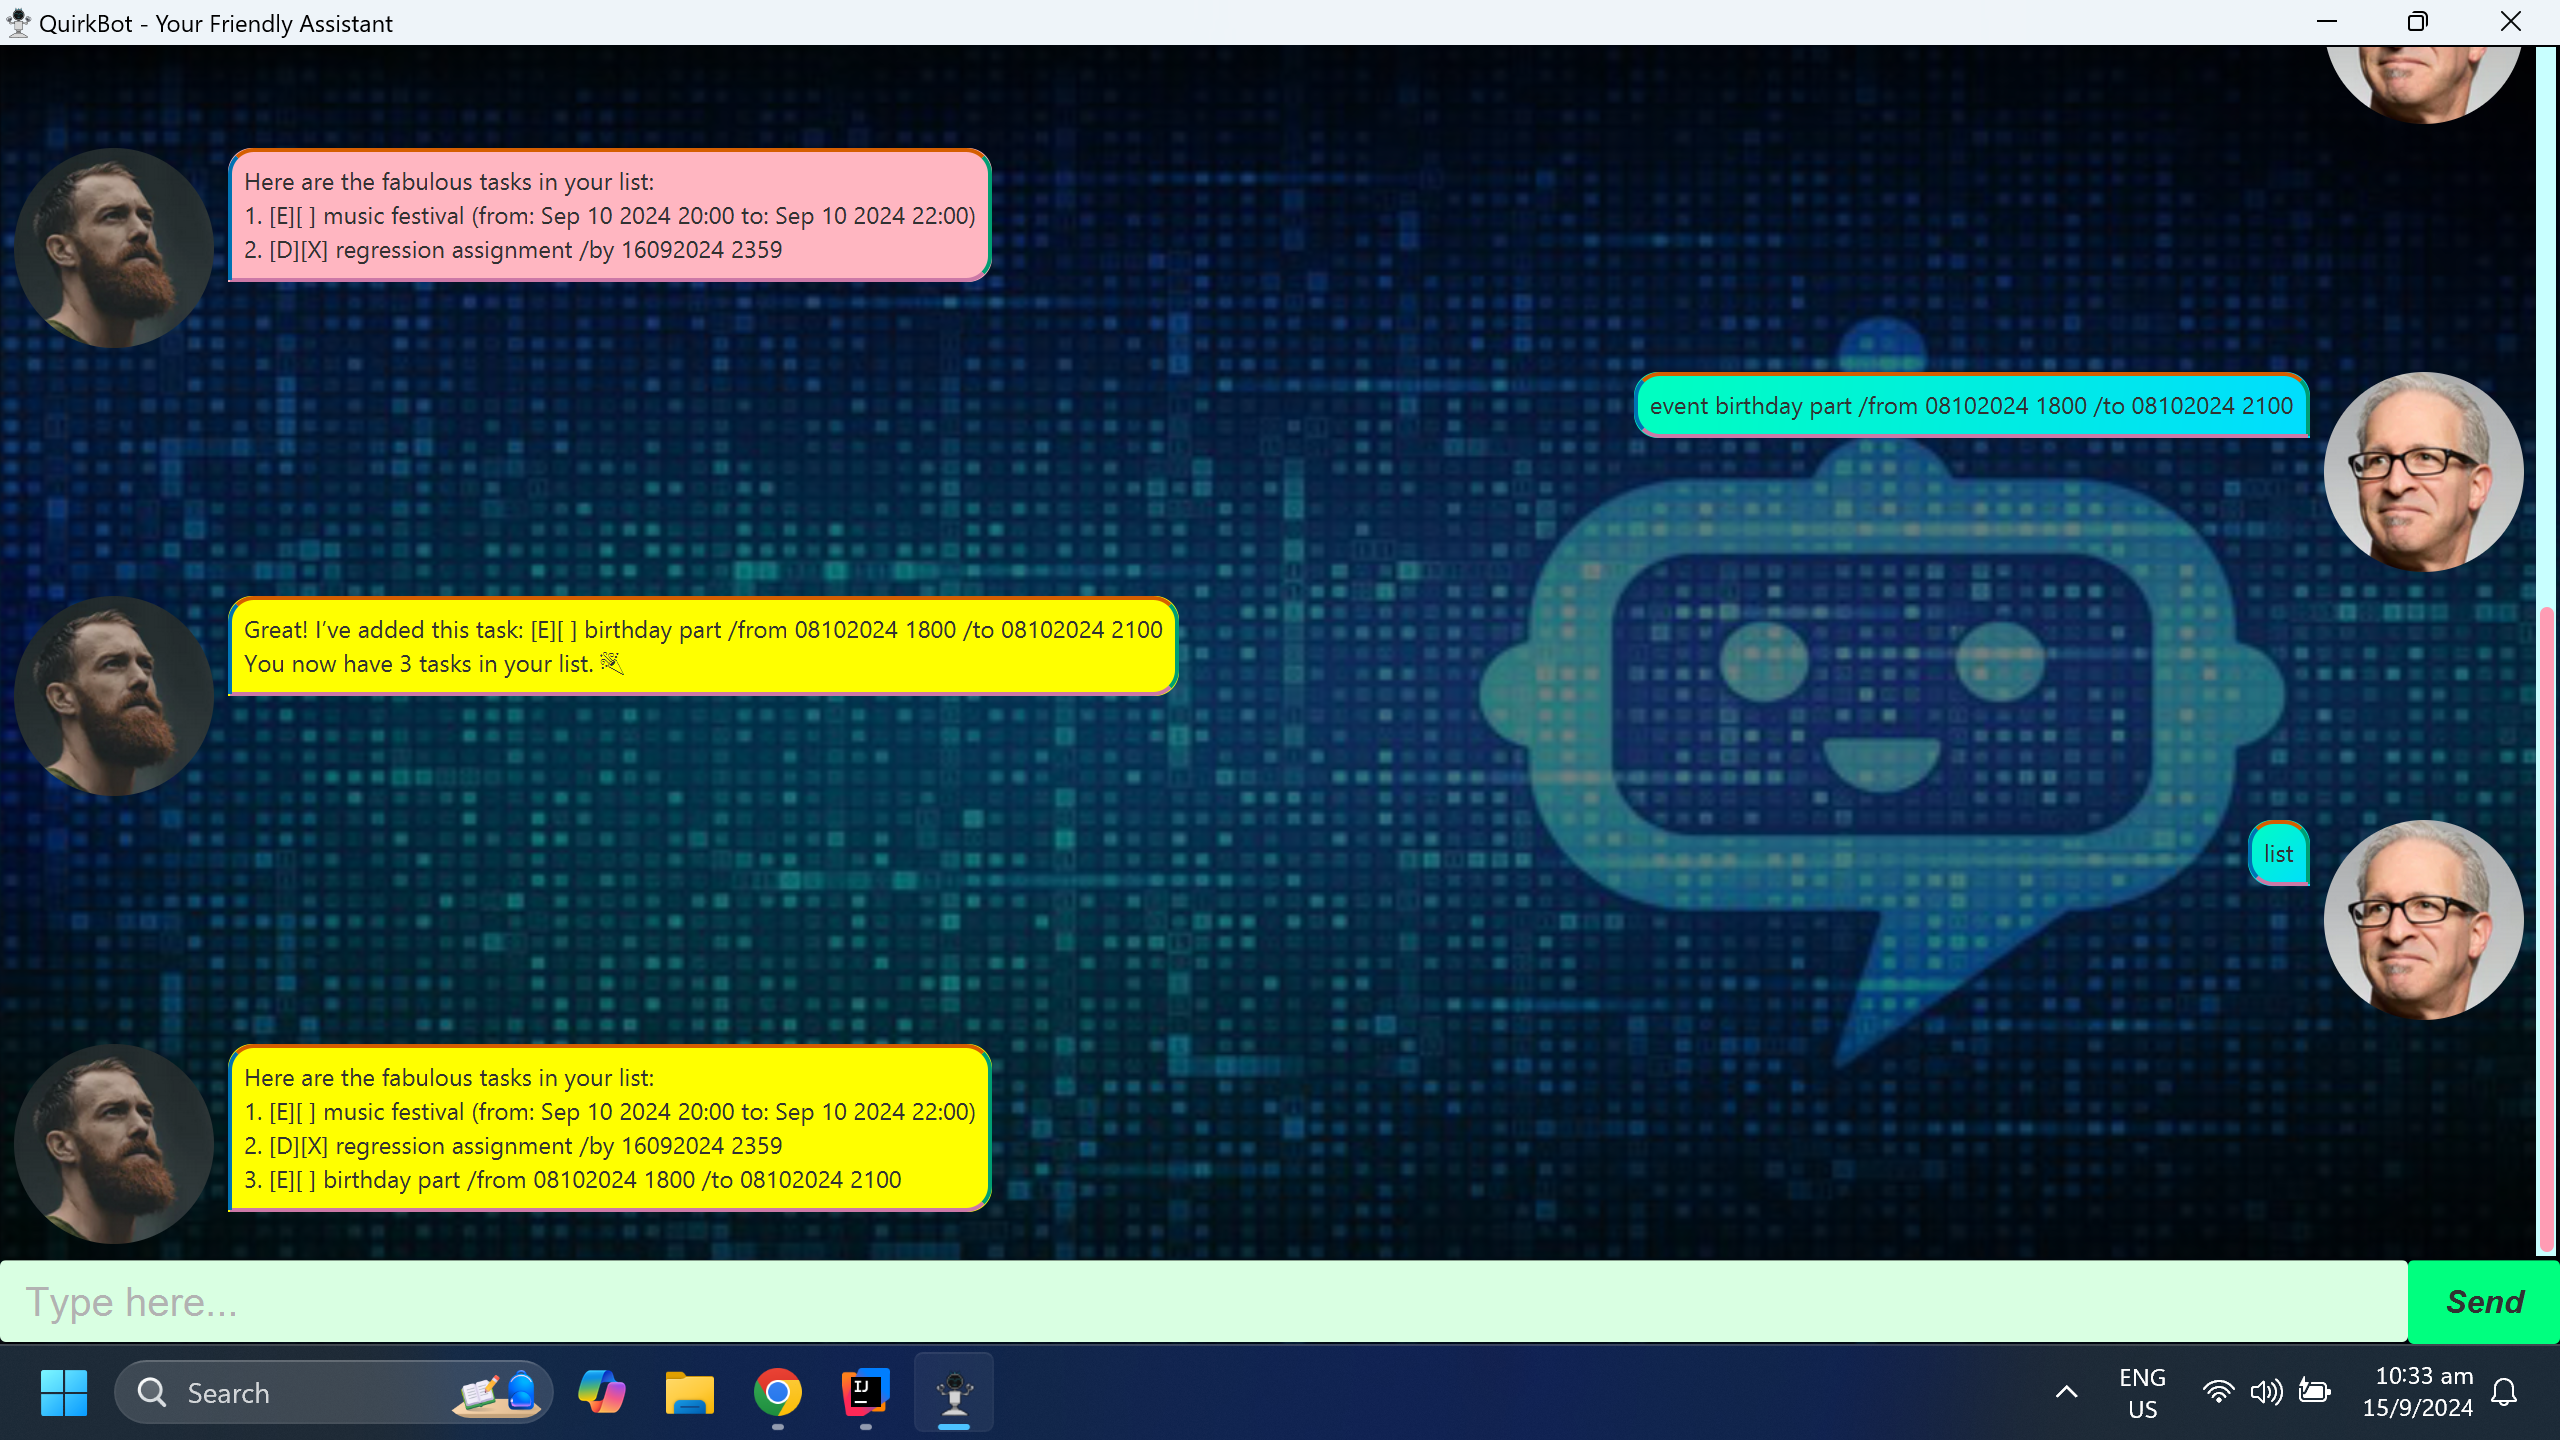
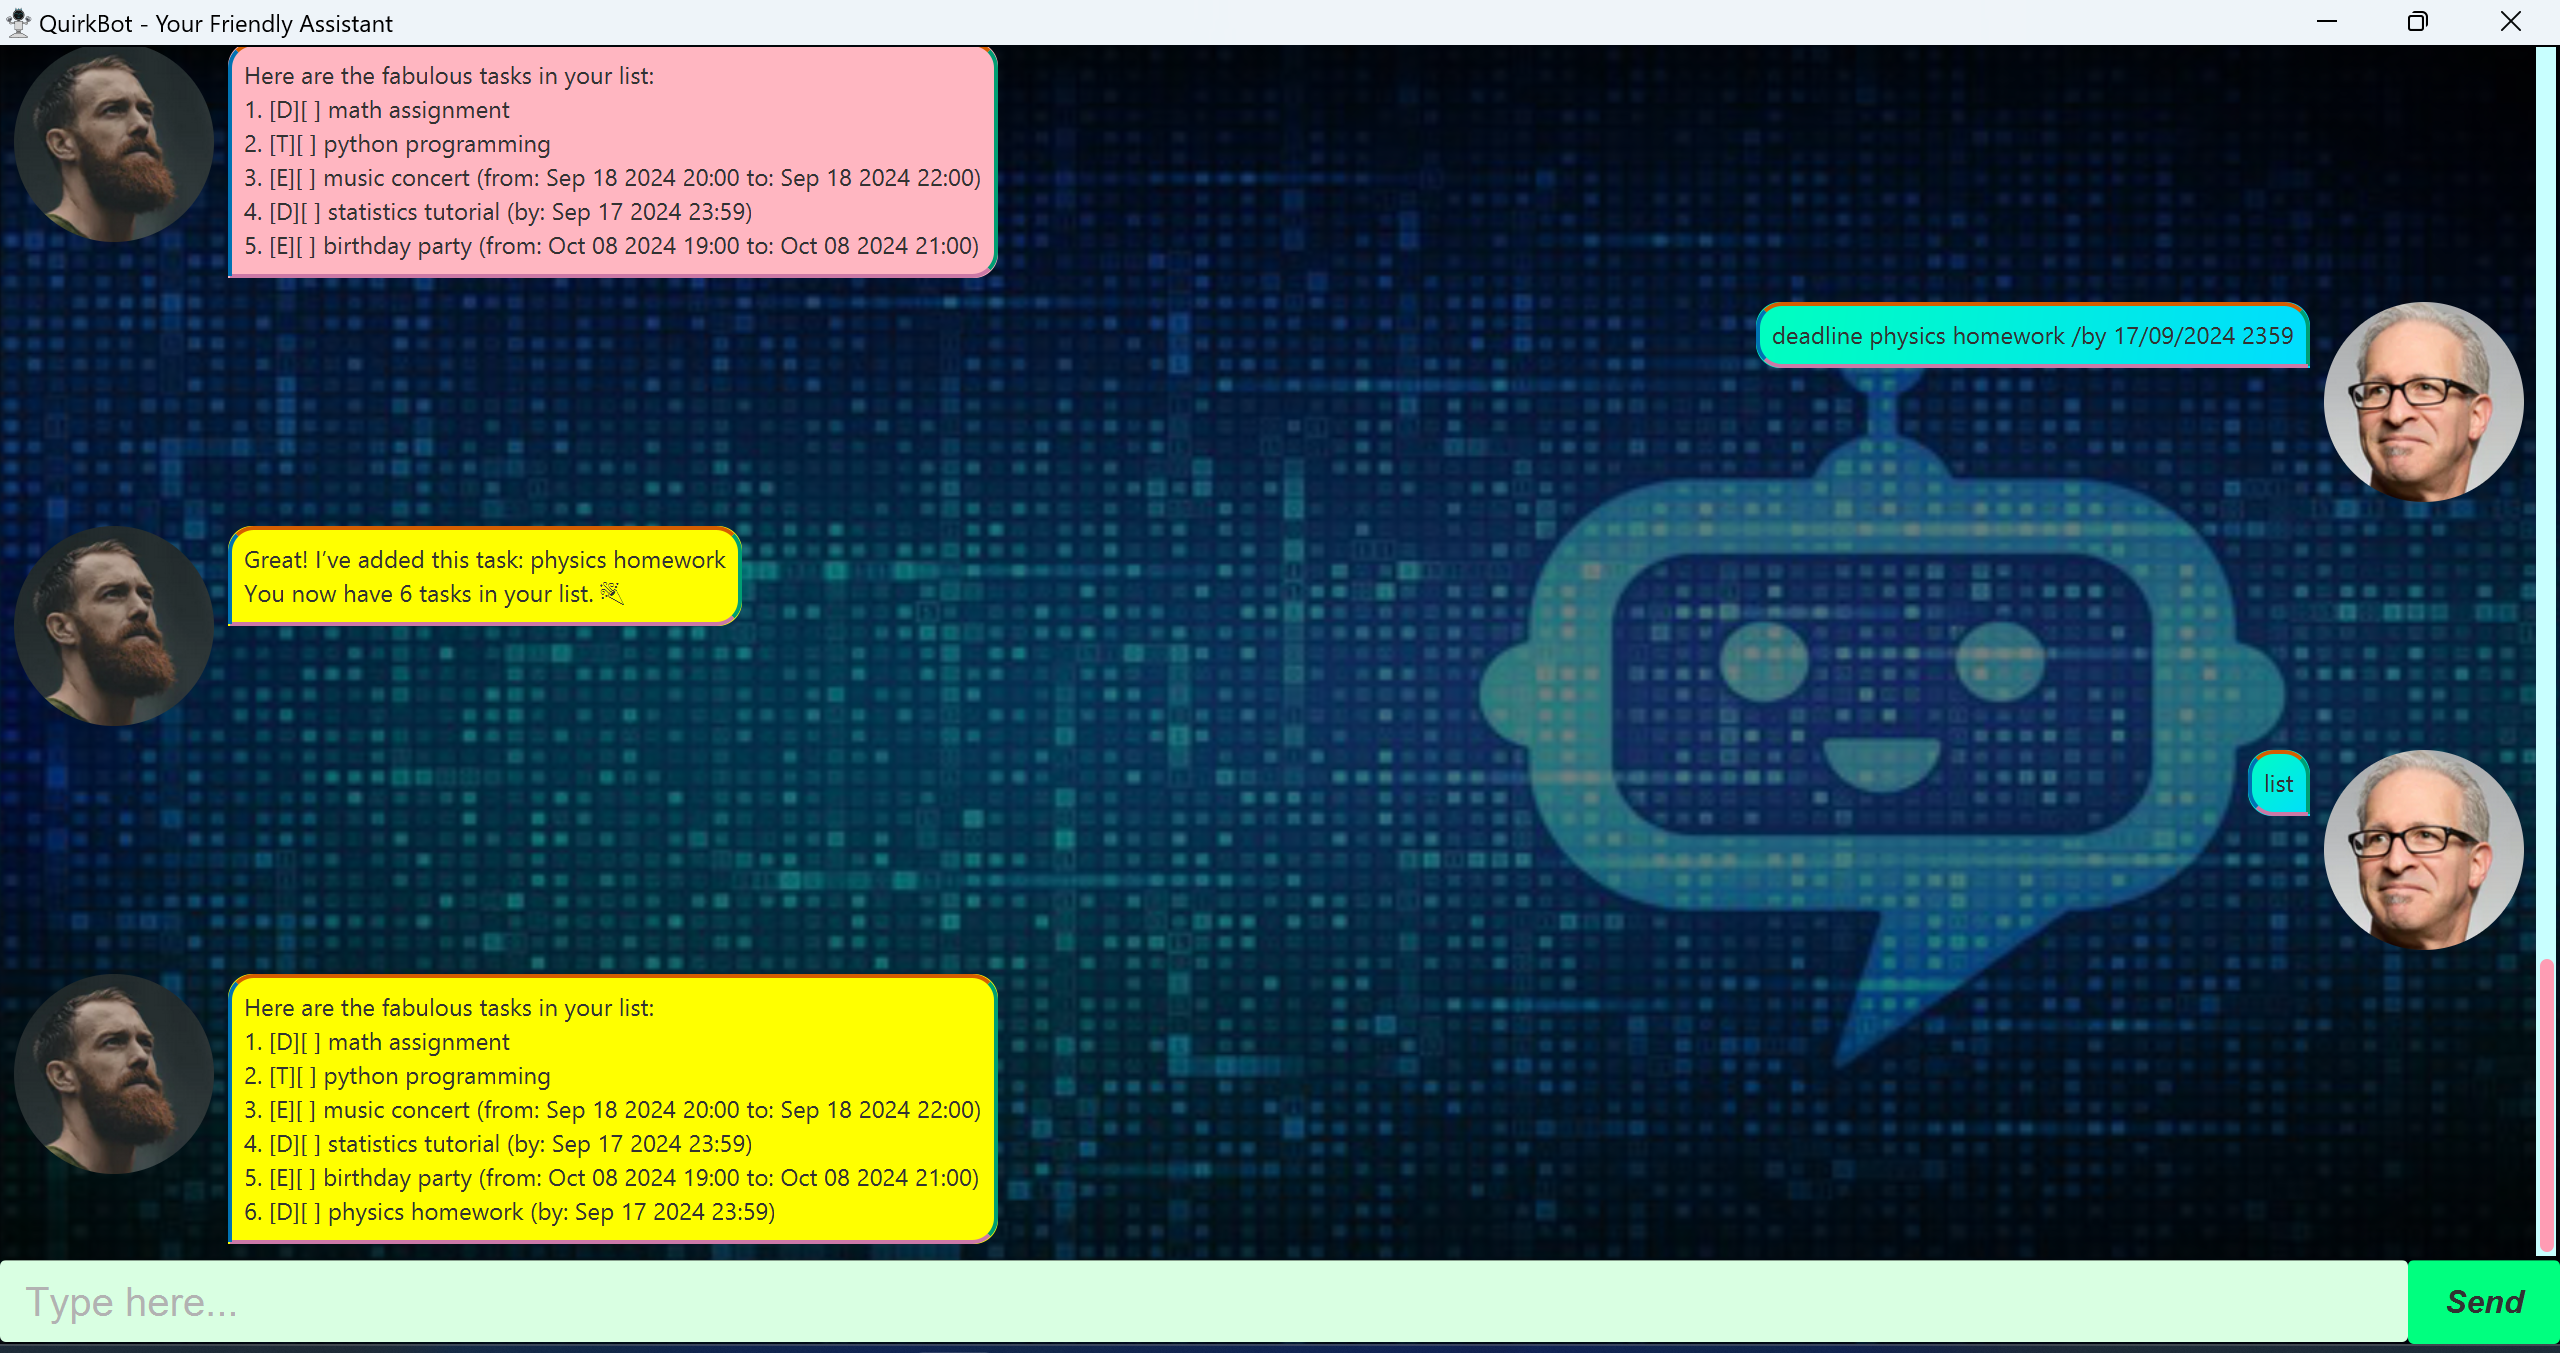
Add Ui picture and simple user guide for QuirkBot

diff --git a/src/main/java/myapp/quirkbot/Ui.java b/src/main/java/myapp/quirkbot/Ui.java
@@ -101,6 +101,8 @@ public class Ui extends Application {
             handleExit();
         } else if (command.equals("list")) {
             response = getTaskListMessage();
+        } else if (command.equals("command")) {
+            response = showListOfCommands();
         } else if (command.startsWith("delete")) {
             commandType = "DeleteCommand";
             response = handleDeleteTask(command);
@@ -124,6 +126,23 @@ public class Ui extends Application {
      */
     public String getCommandType() {
         return commandType;
+    }
+
+    /**
+     * Presents all the available commands for the user.
+     * @return the list of commands.
+     */
+    public String showListOfCommands() {
+        return " List of Commands:\n"
+                + "1. find search_keyword \n"
+                + "2. todo task_description\n"
+                + "3. deadline task_description /by dd/MM/YYYY HHmm\n"
+                + "4. event task_description /from dd/MM/YYYY HHmm /to dd/MM/YYYY HHmm\n"
+                + "5. delete task_number\n"
+                + "6. mark task_number\n"
+                + "7. unmark task_number\n"
+                + "8. list\n"
+                + "9. bye\n";
     }
 
     /**
@@ -244,9 +263,7 @@ public class Ui extends Application {
                     + "Also, use the dd/MM/yyyy HHmm format for the timings.";
         }
 
-        return "Oops! That command doesn’t seem right. "
-                + "Please use 'find', 'todo', 'deadline', 'event', 'delete', 'mark', 'unmark', 'list', or 'bye'."
-                + "Thanks a bunch!";
+        return "Oops! That command doesn’t seem right.";
     }
 
     /**
@@ -270,7 +287,7 @@ public class Ui extends Application {
     public String showTaskAdded(Task task, int tasklistSize) {
         assert task != null : "Task should not be null";
         assert tasklistSize > 0 : "Task list size should be greater than 0";
-        return "Great! I’ve added this task: " + task
+        return "Great! I’ve added this task: " + task.getDescription()
                 + "\nYou now have " + tasklistSize + " tasks in your list. 🎉";
     }
 
@@ -282,7 +299,7 @@ public class Ui extends Application {
      */
     public String showTaskRemoved(Task task) {
         assert task != null : "Task should not be null";
-        return "Done! I’ve removed this task: " + task
+        return "Done! I’ve removed this task: " + task.getDescription()
                 + "\nNow you have " + taskList.size() + " tasks left. 📉";
     }
 
@@ -295,7 +312,7 @@ public class Ui extends Application {
     public String showTaskMarked(Task task) {
         assert task != null : "Task should not be null";
         task.markDone();
-        return "Hooray! I’ve marked this task as done: " + task;
+        return "Hooray! I’ve marked this task as done: " + task.getDescription();
     }
 
     /**
@@ -307,7 +324,7 @@ public class Ui extends Application {
     public String showTaskUnmarked(Task task) {
         assert task != null : "Task should not be null";
         task.markUndone();
-        return "No worries! I’ve marked this task as not done yet: " + task;
+        return "No worries! I’ve unmarked this task as not done yet: " + task.getDescription();
     }
 
     /**

diff --git a/src/main/java/myapp/quirkbot/Parser.java b/src/main/java/myapp/quirkbot/Parser.java
@@ -29,24 +29,26 @@ public class Parser {
             return new ToDo(description);
         } else if (command.startsWith("deadline")) {
             String description = command.substring(8).trim();
-            String[] parts = command.split("/by", 2);
+            String[] parts = description.split("/by", 2);
             assert parts.length == 2 : "Deadline command should contain '/by' separator.";
+            String taskDescription = parts[0].trim();
             LocalDateTime deadline = parseDateTime(parts[1].trim());
-            assert !description.isEmpty() : "Deadline description should not be empty.";
+            assert !taskDescription.isEmpty() : "Deadline description should not be empty.";
             assert deadline != null : "Deadline date/time should be valid.";
-            return new Deadline(description, deadline);
+            return new Deadline(taskDescription, deadline);
         } else if (command.startsWith("event")) {
             String description = command.substring(5).trim();
-            String[] parts = command.split("/from", 2);
+            String[] parts = description.split("/from", 2);
             assert parts.length == 2 : "Event command should contain '/from' separator.";
+            String taskDescription = parts[0].trim();
             String[] subParts = parts[1].split("/to", 2);
             assert subParts.length == 2 : "Event command should contain '/to' separator.";
             LocalDateTime from = parseDateTime(subParts[0].trim());
             LocalDateTime to = parseDateTime(subParts[1].trim());
-            assert !description.isEmpty() : "Event description should not be empty.";
+            assert !taskDescription.isEmpty() : "Event description should not be empty.";
             assert from != null : "Event start date/time should be valid.";
             assert to != null : "Event end date/time should be valid.";
-            return new Event(description, from, to);
+            return new Event(taskDescription, from, to);
         }
         return null;
     }

diff --git a/src/main/java/myapp/quirkbot/Main.java b/src/main/java/myapp/quirkbot/Main.java
@@ -3,7 +3,7 @@ package myapp.quirkbot;
 import javafx.application.Application;
 
 /**
- * Main class which launches the application
+ * Main class which launches the application.
  */
 public class Main {
     public static void main(String[] args) {

diff --git a/docs/README.md b/docs/README.md
@@ -1,30 +1,132 @@
-# Duke User Guide
-
+# User Guide to QuirkBot - Your Friendly Assistant
 // Update the title above to match the actual product name
 
 // Product screenshot goes here
+![Ui.png](Ui.png)
 
 // Product intro goes here
+Welcome to QuirkBot - Your Friendly Assistant. QuirkBot helps you
+to efficiently manage all your tasks in a convenient location. 
+Consequently, QuirkBot ensures you will not forget any outstanding 
+tasks and tasks already completed.
 
-## Adding deadlines
-
-// Describe the action and its outcome.
-
-// Give examples of usage
-
-Example: `keyword (optional arguments)`
-
-// A description of the expected outcome goes here
-
-```
-expected output
-```
-
-## Feature ABC
-
+## Show list of commands
 // Feature details
+Shows all available commands to use.
 
+Example: `command`
+Enter the keyword `command` to access all available commands.
 
-## Feature XYZ
+Expected Outcome:
+`List of Keyword Commands:`
 
+## Add deadline tasks
 // Feature details
+Helps you to add a deadline task.
+
+Example: `deadline math assignment /by 22092024 2359`
+Enter the keyword `deadline` followed by `task_description`.
+After `task_description`, enter the deadline in the
+following format `/by dd/MM/YYYY HHmm`.
+
+Expected Outcome:
+`Great! I've added this task: [D][] math assignment /by 22092024
+You now have X tasks in your list.`
+`X` represents the current number of tasks in your task list.
+
+## Add todo tasks
+// Feature details
+Helps you to add a todo task.
+
+Example: `todo python programming`
+Enter the keyword `todo` followed by `task_description`.
+
+Expected Outcome:
+`Great! I've added this task: [T][] python programming
+You now have X tasks in your list`
+`X` represents the current number of tasks in your task list.
+
+## Add event tasks
+// Feature details
+Helps you to add an event task.
+
+Example: `event music concert /from 21/09/2024 1900 /to 21/09/2024 2200`
+Enter the keyword `event` followed by `task_description`.
+After `task_description`, enter start timing in the following 
+format `/from dd/MM/YYYY HHmm` and end timing in the following 
+format `/to dd/MM/YYYY HHmm`.
+
+Expected Outcome:
+`Great! I've added this task: [E][] music concert /from 21/09/2024 1900
+/to 21/09/2024 2200. You now have X tasks in your list`
+`X` represents the current number of tasks in your task list.
+
+## Mark a task
+// Feature details
+Helps you to mark a task which you have already completed.
+
+Example: `mark X`
+Enter the keyword `mark` followed by the task number from the list
+
+Expected Outcome:
+`Hooray! I've marked this task as done`
+
+## Unmark a task
+// Feature details
+Helps you to unmark a task which is still pending completion.
+
+Example: `unmark X`
+Enter the keyword `unmark` followed by the task number from the list
+
+Expected Outcome:
+`No worries! I've marked this task as not done yet`
+
+## Delete a task
+// Feature details
+Helps you to delete a task which you have completed a long time ago.
+
+Example: `delete X`
+Enter the keyword `delete` followed by the task number from the list
+
+Expected Outcome:
+`Done! I've removed this task [T][X] eat lunch
+Now you have X tasks left`
+`X` represents the current number of tasks in your task list
+
+## Find a task
+// Feature details
+Finds a task from your current task list using a specific keyword.
+
+Example: `find python`
+Enter the keyword `find` followed by the search keyword `python`
+
+Expected Outcome:
+`Here are the search results for you:
+   [T][] python programming`
+
+## Show Task List
+// Feature details
+Shows your current task list of all your tasks.
+
+Example: `list`
+Enter the keyword `list` for QuirkBot to present your
+current task list.
+
+Expected Outcome:
+`Here are the fabulous tasks in your list:
+    task 1
+    task 2
+    task 3
+    so on`
+task 1, task 2, task 3 and so on will be inside your
+fabulous task list.
+
+## Exit Program
+// Feature details
+Exits from the QuirkBot program.
+
+Example: `bye`
+Enter the keyword `bye` to exit from QuirkBot.
+
+Expected Outcome:
+`Farewell! I'll be here when you need me.`
